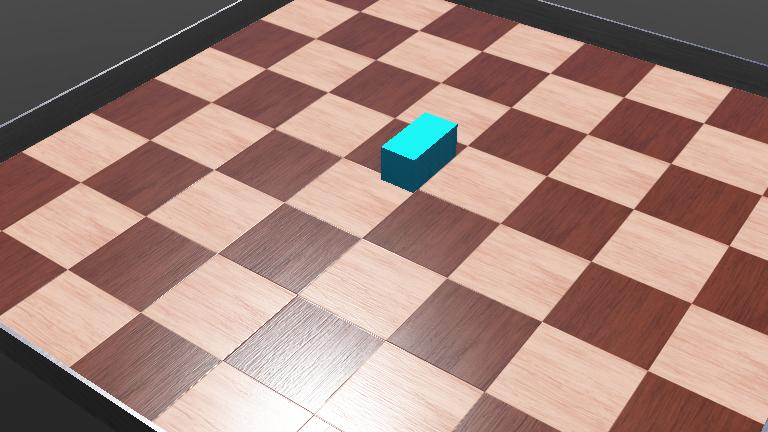
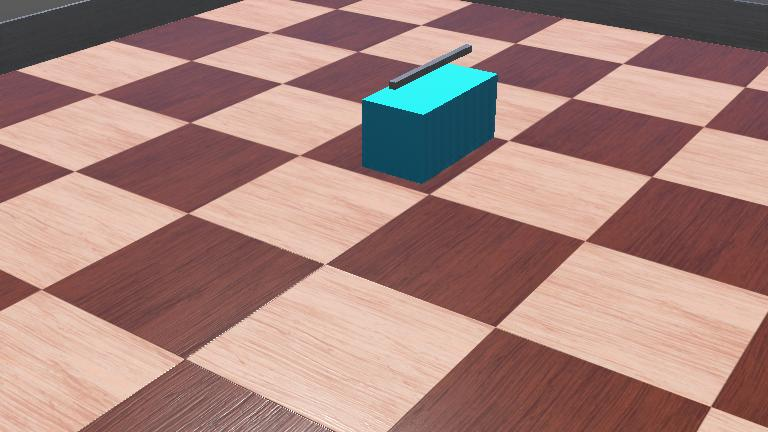
cocoptero

diff --git a/controllers/velocidad_constante/velocidad_constante.cpp b/controllers/velocidad_constante/velocidad_constante.cpp
@@ -1,0 +1,30 @@
+
+#include <webots/Robot.hpp>
+#include <webots/Motor.hpp>
+
+using namespace webots;
+
+int main(int argc, char **argv) {
+  Robot *robot = new Robot();
+
+  int timeStep = (int)robot->getBasicTimeStep();
+
+  Motor *motor = robot->getMotor("MOTOR1");
+  motor->setPosition(INFINITY); //puede dar infinitas vueltass
+
+  //  DistanceSensor *ds = robot->getDistanceSensor("dsname");
+  //  ds->enable(timeStep);
+
+  while (robot->step(timeStep) != -1) {
+    // Read the sensors:
+    // Enter here functions to read sensor data, like:
+    //  double val = ds->getValue();
+
+    motor->setVelocity(3); // hay control por posicion, velocidad y aceleracion
+  };
+
+  // Enter here exit cleanup code.
+
+  delete robot;
+  return 0;
+}
